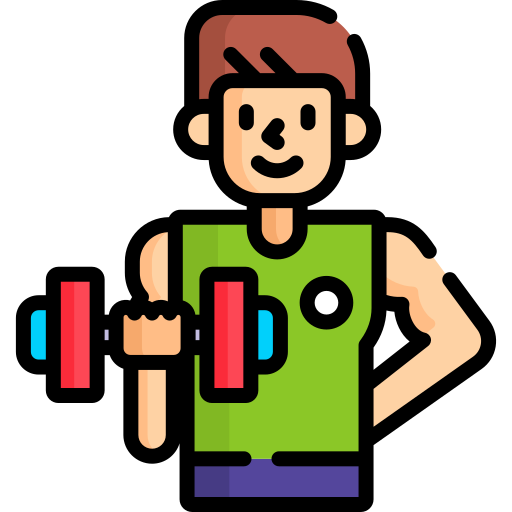
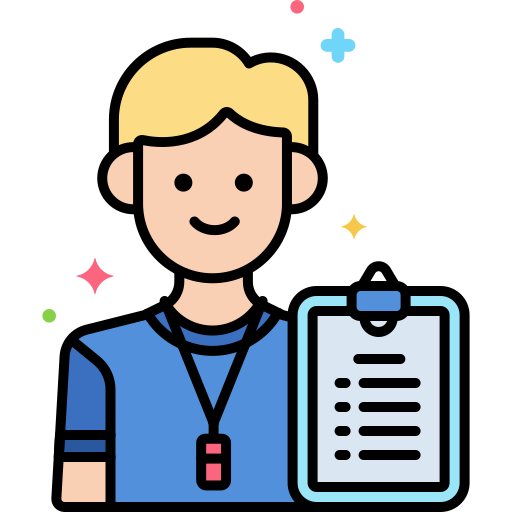
change 124

diff --git a/templates/dashboard_page.html b/templates/dashboard_page.html
@@ -11,14 +11,27 @@
         <img src="/static/images/dashboard.png" alt="Example Image" width="40" height="40" style="display: inline-block;">
     </h1>
     
-    <p style="border: 1px solid yellowgreen; padding: 5px; font-size: 20;">
+    <p style="border: 1px solid yellowgreen; padding: 5px; font-size: 25;">
         Hello <span style="color: rgb(1, 82, 9);">"{{usr_nme}}"</span>, you are signin!
     </p>
+    <br>
+
+    <a href="{{url_for('user_bmi')}}">
+        Calculate BMI
+        <img src="/static/images/bmi.png" alt="Example Image" width="35" height="35" style="display: inline-block;">
+    </a>
+    <br>
     
+    <a href="{{url_for('user_fitness_program')}}">
+        Fitness Programs
+        <img src="/static/images/trainer.png" alt="Example Image" width="35" height="35" style="display: inline-block;">
+    </a>
+    <br>
     
-    <p><a href="{{url_for('user_bmi')}}">Calculate BMI</a></p>
-    <p><a href="{{url_for('user_fitness_program')}}">Fitness Programs</a></p>
-    <p><a href="{{url_for('user_signout')}}">Sign Out</a></p>
+    <a href="{{url_for('user_signout')}}">
+        Sign Out
+        <img src="/static/images/signout.png" alt="Example Image" width="35" height="35" style="display: inline-block;">
+    </a>
 
 </body>
 </html>
